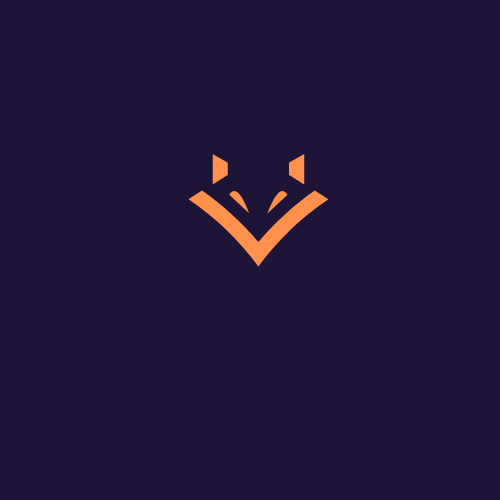
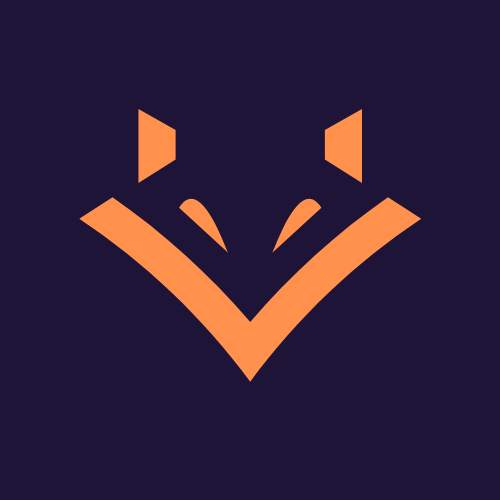
EDIT changed foxicon, ADDED elements to navbar and ADDED home.jsx

Changed region(s): [[0.15, 0.39, 0.84, 0.78], [0.36, 0.21, 0.75, 0.54], [0.27, 0.21, 0.36, 0.36]]

diff --git a/portfolio/src/components/Navbar.jsx b/portfolio/src/components/Navbar.jsx
@@ -1,38 +1,70 @@
-import React from 'react'
-import {FaBars, FaTimes} from 'react-icons/fa'
-import Logo from '../assets/FoxIcon.png'
+import React, {useState} from 'react';
+import { FaBars, FaTimes, FaGithub, FaLinkedin } from 'react-icons/fa';
+import {HiOutlineMail} from 'react-icons/hi';
+import {BsFillPersonLinesFill} from 'react-icons/bs';
+import Logo from '../assets/foxicon.png';
 
 const Navbar = () => {
+  const [nav, setNav] = useState(false)
+  const handleClick = () => setNav(!nav)
   return (
     <div className='fixed w-full h-[80px] flex justify-between items-center px-4 bg-[#1D1438] text-[#E6E6E6]'>
         <div>
-          <img src={Logo} alt="Logo" style={{width: '50px'}} />
+          <img src={Logo} alt="Logo" style={{width: '70px'}} />
         </div>
 
       {/*Menu*/}
-        <div>
-          <ul className='flex'>
-            <li>Home</li>
-            <li>About</li>
-            <li>Experience</li>
-            <li>Work</li>
-            <li>Contact</li>
-          </ul>
-        </div>
-
-      {/*Hamburger Menu*/}
-        <div className='hidden'>
-          <FaBars />
-        </div>
-
-      {/*Mobile Menu*/}
-      <ul className='hidden'>
+      <ul className='hidden md:flex'>
         <li>Home</li>
         <li>About</li>
         <li>Experience</li>
         <li>Work</li>
         <li>Contact</li>
       </ul>
+
+      {/*Hamburger Menu*/}
+        <div onClick={handleClick} className='md:hidden z-10'>
+          {!nav ? <FaBars /> : <FaTimes />}
+        </div>
+
+      {/*Mobile Menu*/}
+      <ul className={!nav ? 'hidden' : 'absolute top-0 left-0 w-full h-screen bg-[#1D1438] flex flex-col justify-center items-center'}>
+        <li className='py-6 text-4xl'>Home</li>
+        <li className='py-6 text-4xl'>About</li>    
+        <li className='py-6 text-4xl'>Experience</li>
+        <li className='py-6 text-4xl'>Work</li>
+        <li className='py-6 text-4xl'>Contact</li>
+      </ul>
+
+      {/*Social Icons*/}
+      <div className='hidden lg:flex fixed flex-col top-[35%] left-0 items-center'>
+        <ul>
+          <li className='w-[160px] h-[60px] flex justify-between items-center ml-[-100px] hover:ml-[-10px] duration-300 bg-[#85FFC7]'>
+            <a className='flex justify-between items-center w-full text-[#FF8552]'
+             href="/">
+              Linkedin <FaLinkedin size={30} ></FaLinkedin>
+            </a>
+          </li>
+          <li className='w-[160px] h-[60px] flex justify-between items-center ml-[-100px] hover:ml-[-10px] duration-300 bg-[#297373]'>
+            <a className='flex justify-between items-center w-full text-[#FF8552]'
+             href="/">
+              Github <FaGithub size={30} ></FaGithub>
+            </a>
+          </li>
+          <li className='w-[160px] h-[60px] flex justify-between items-center ml-[-100px] hover:ml-[-10px] duration-300 bg-[#89568A]'>
+            <a className='flex justify-between items-center w-full text-[#FF8552]'
+             href="/">
+              Email <HiOutlineMail size={30} ></HiOutlineMail>
+            </a>
+          </li>
+          <li className='w-[160px] h-[60px] flex justify-between items-center ml-[-100px] hover:ml-[-10px] duration-300 bg-[#E04300]'>
+            <a className='flex justify-between items-center w-full text-[#FF8552]'
+             href="/">
+              Resume <BsFillPersonLinesFill size={30} ></BsFillPersonLinesFill>
+            </a>
+          </li>
+        </ul>
+      </div>
     </div>
   )
 }

diff --git a/portfolio/src/components/Home.jsx b/portfolio/src/components/Home.jsx
@@ -1,0 +1,21 @@
+import React from 'react'
+import {HiArrowNarrowRight} from 'react-icons/hi'
+
+const Home = () => {
+  return (
+    <div name='home' className='w-full h-screen bg-[#1D1438]'>
+        {/* Container */} 
+        <div className='max-w-[1000px] mx-auto px-8 flex flex-col justify-center h-full'>
+            <p className='text-[#FF8552]'>Hello, my name is</p>
+            <h1 className='text-4xl sm:text-7xl font-bold text-[#ADFFD9]'>Mary Frye</h1>
+            <h2 className='text-4xl sm:text-7xl font-bold text-[#F7F2F7]'>I'm a full stack developer.</h2>
+            <p className='text-[#F7F2F7] py-4 max-w-[700px]'>I'm a full stack developer focused on creating and designing exceptional digital experiences. Currently, I'm focused on building responsive full-stack web applications.</p>
+            <div>
+                <button className='text-[#FF8552] border-2 px-6 py-3 my-2 flex items-center hover:bg-[#297373] hover:border-[#85FFC7]'>View Work <HiArrowNarrowRight /></button>
+            </div>
+        </div>
+    </div>
+  )
+}
+
+export default Home

diff --git a/portfolio/src/index.css b/portfolio/src/index.css
@@ -1,3 +1,15 @@
 @tailwind base;
 @tailwind components;
 @tailwind utilities;
+
+@import url('https://fonts.googleapis.com/css2?family=Raleway:wght@300;400;500;600;700;800;900&display=swap');
+
+@layer base{
+    body {
+        @apply font-[Raleway];
+    }
+    li {
+        @apply px-4;
+        @apply cursor-pointer;
+    }
+}

diff --git a/portfolio/src/App.js b/portfolio/src/App.js
@@ -1,11 +1,13 @@
-import logo from './FoxIcon.png';
+import logo from './assets/foxicon.png';
 import './App.css';
 import Navbar from "./components/Navbar";
+import Home from './components/Home';
 
 function App() {
   return (
     <div>
       <Navbar />  
+      <Home />
     </div>
   );
 }
